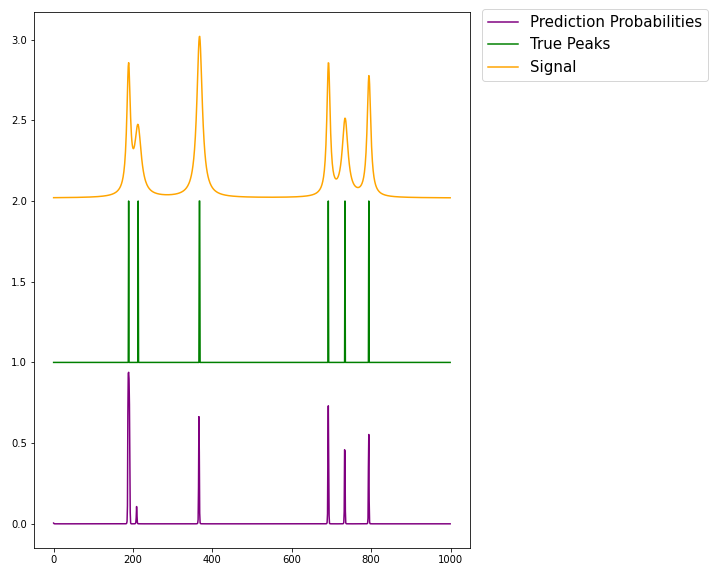
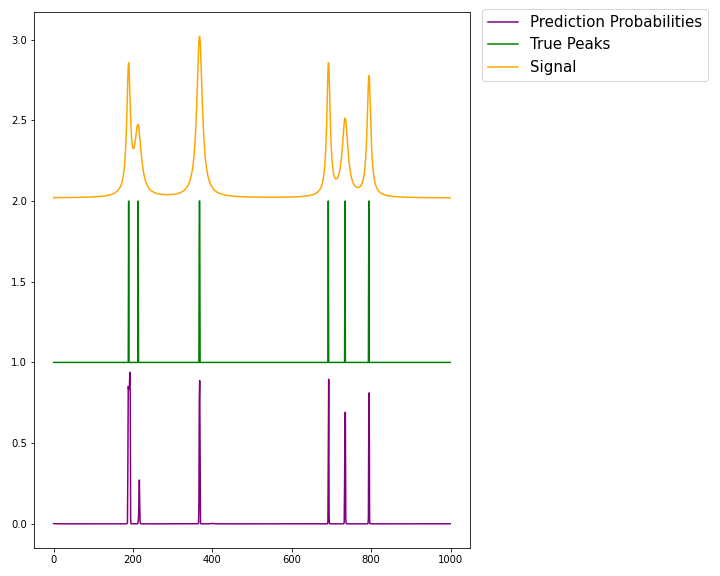
New figures.

diff --git a/RNN_files/testing_diffraction.py b/RNN_files/testing_diffraction.py
@@ -1,32 +1,27 @@
-import sys
-import os
-
 # Add the parent directory to sys.path
 sys.path.append(os.path.abspath(".."))
 
-# Importing needed libraries
+# Importing necessary libraries
+import sys
+import os
 from matplotlib import pyplot as plt
 from RNN_files import Laitala_data_original_file
 import wfdb
 from wfdb.io import get_record_list
 from wfdb import rdsamp
+import numpy as np
 import tensorflow as tf
 from tensorflow.keras import layers
 from scipy.signal import resample_poly
+import xarray as xr
+import matplotlib.pyplot as plt
 from RNN_files import Laitala_data_original_file
 import tensorflow
 from tensorflow.keras import layers, models, Input
 import numpy as np
-import xarray as xr
-import matplotlib.pyplot as plt
 import sklearn
 from sklearn.model_selection import train_test_split
-from wfdb.processing import (
-    resample_singlechan,
-    find_local_peaks,
-    correct_peaks,
-    normalize_bound
-)
+from sklearn.metrics import f1_score
 
 diffraction_sim = False
 gauss_sim = True
@@ -35,13 +30,14 @@ visualize_example = False
 if diffraction_sim:
     path = '/nsls2/users/shasko/Repos/internship_2025/datasets/ds_combined_500_patterns_NaCl.nc'
     ds = xr.open_dataset(path, engine="netcdf4")
-    gaussians = ds["Intensities"]
-    binary = ds["binary_arr"]
+    gaussians = ds["Intensities"].values
+    binary = ds["binary_arr"].values
     x = ds["tth"].values
-    window_size = 11753
+
+    window_size = 11763
 
 if gauss_sim:
-    path = '/nsls2/users/shasko/Repos/internship_2025/datasets/math_functions_smalldataset.nc' 
+    path = '/nsls2/users/shasko/Repos/internship_2025/saved_data/gaussian_functions_smalldataset_varying_amps.nc' 
     ds = xr.open_dataset(path, engine="netcdf4")
 
     gaussians = ds["Gaussians"].values
@@ -49,7 +45,16 @@ if gauss_sim:
     print(type(binary))
 
     x = ds["x"].values
-    window_size = 990
+    window_size = 1000
+
+
+# Pad peaks with two 1s on either side
+for j in range(binary.shape[0]):
+    idx = np.where(binary[j] == 1)[0][0] # because there's only 1 "1" we can use [0][0]
+    binary[j][idx - 2] = 1
+    binary[j][idx - 1] = 1
+    binary[j][idx + 1] = 1
+    binary[j][idx + 2] = 1
 
 # Train-val, test split
 tv_gaussians, test_gaussians, tv_binary, test_binary = train_test_split(gaussians, binary, test_size=0.2, shuffle=False)
@@ -57,91 +62,25 @@ tv_gaussians, test_gaussians, tv_binary, test_binary = train_test_split(gaussian
 # Train, val split
 train_gaussians, val_gaussians, train_binary, val_binary = train_test_split(tv_gaussians, tv_binary, test_size=0.25, shuffle=False)
 
-# Make lists from train, val, test data
-gauss_signals_train = [signal for signal in train_gaussians]
-gauss_signals_val = [signal for signal in val_gaussians]
-gauss_signals_test = [signal for signal in test_gaussians]
+# Scale the data
+train_gaussians_sc = np.zeros_like(train_gaussians)
+val_gaussians_sc = np.zeros_like(val_gaussians)
+test_gaussians_sc = np.zeros_like(test_gaussians)
 
-binary_labels_train = [label for label in train_binary]
-binary_labels_val = [label for label in val_binary]
-binary_labels_test = [label for label in test_binary]
+for j in range(train_gaussians.shape[0]):
+    max_inten = np.max(train_gaussians[j])
+    min_inten = np.min(train_gaussians[j])
+    train_gaussians_sc[j] = (train_gaussians[j] - min_inten) / (max_inten - min_inten)
 
-# Data generator adapted from Laitala et al.
-def data_generator(signals, labels, win_size, batch_size):
-   
-    while True:
-        X, y = [], []
+for j in range(val_gaussians.shape[0]):
+    max_inten = np.max(val_gaussians[j])
+    min_inten = np.min(val_gaussians[j])
+    val_gaussians_sc[j] = (val_gaussians[j] - min_inten) / (max_inten - min_inten)
 
-        while len(X) < batch_size:
-            i = np.random.randint(0, len(signals))
-            sig = signals[i]
-            lbl = labels[i]
-
-            if len(sig) <= win_size + 4:
-                continue  # skip short signals
-
-            start = np.random.randint(2, len(sig) - win_size - 2)
-            end = start + win_size
-
-            data_win = sig[start:end]
-            label_win = lbl[start:end]
-
-            # Pad 1s ±2 samples around every 1 in label_win
-            padded_label = label_win.copy()
-            ones = np.where(label_win == 1)[0]
-            for p in ones:
-                for offset in [-2, -1, 1, 2]:
-                    if 0 <= p + offset < win_size:
-                        padded_label[p + offset] = 1
-
-            # Normalize signal window to (0, 1)
-            # data_win = normalize_bound(data_win, lb=0, ub=1)
-
-            # Normalized locally
-            data_win = (data_win - np.min(data_win))/(np.max(data_win) - np.min(data_win))
-
-            # Normalized globally
-            # low = np.min(signals)
-            # high = np.max(signals)
-            # data_win = (data_win - low)/(high - low)
-
-            X.append(data_win)
-            y.append(padded_label)
-
-        X = np.array(X).reshape(batch_size, win_size, 1)
-        y = np.array(y).reshape(batch_size, win_size, 1).astype(int)
-
-        yield X, y
-
-if visualize_example:
-    gen = data_generator(gauss_signals_train, binary_labels_train, win_size=window_size, batch_size=64)
-    X_batch, y_batch = next(gen)
-    n = next(gen)
-
-    # Plot 4 training examples with labels
-    fig, axs = plt.subplots(2, 2)
-    fig.set_figheight(10), fig.set_figwidth(18)
-    fig.suptitle('Some examples of training data with labels', size=20)
-
-    # first index refers to whether it's an input or label, so noisy signal is input and peaks are labels
-    axs[0, 0].plot(n[0][0], color='orange')
-    axs[0, 0].plot(n[1][0]+1, color='green')
-
-    axs[0, 1].plot(n[0][1], color='purple')
-    axs[0, 1].plot(n[1][1]+1, color='blue')
-
-    axs[1, 0].plot(n[0][2], color='yellow')
-    axs[1, 0].plot(n[1][2]+1, color='red')
-
-    axs[1, 1].plot(n[0][3], color='black')
-    axs[1, 1].plot(n[1][3]+1, color='grey')
-
-    # Hide x labels and tick labels for top plots and y ticks for right plots.
-    for ax in axs.flat:
-        ax.label_outer()
-
-    plt.show()
-
+for j in range(test_gaussians.shape[0]):
+    max_inten = np.max(test_gaussians[j])
+    min_inten = np.min(test_gaussians[j])
+    test_gaussians_sc[j] = (test_gaussians[j] - min_inten) / (max_inten - min_inten)
 
 n_batch, n_timesteps, n_input_dim = 64, window_size, 1
 
@@ -151,6 +90,7 @@ model.add(layers.Bidirectional(layers.LSTM(32, return_sequences=True)))
 model.add(layers.Bidirectional(layers.LSTM(32, return_sequences=True)))
 model.add(layers.Dense(1, activation='sigmoid'))
 
+# Compile model
 model.compile(loss='binary_crossentropy',
               optimizer='adam',
               metrics=['acc'])
@@ -167,32 +107,101 @@ es_callback = tf.keras.callbacks.EarlyStopping(monitor='loss',
                                               patience=3,
                                               verbose=2)
 
-# Generate training, validation, and testing data
-training_gen = data_generator(gauss_signals_train, binary_labels_train, win_size=n_timesteps, batch_size=n_batch)
-validation_gen = data_generator(gauss_signals_val, binary_labels_val, win_size=window_size, batch_size=n_batch)
-testing_gen = data_generator(gauss_signals_test, binary_labels_test, win_size=n_timesteps, batch_size=n_batch)
+# Reshape intensity data
+train_gaussians_reshaped = train_gaussians_sc.reshape(train_gaussians_sc.shape[0], train_gaussians_sc.shape[1], 1)
+val_gaussians_reshaped = val_gaussians_sc.reshape(val_gaussians_sc.shape[0], val_gaussians_sc.shape[1], 1)
+test_gaussians_reshaped = test_gaussians_sc.reshape(test_gaussians_sc.shape[0], test_gaussians_sc.shape[1], 1)
+
+# Reshape labels
+train_binary_reshaped = train_binary.reshape(train_binary.shape[0], train_binary.shape[1], 1)
+val_binary_reshaped = val_binary.reshape(val_binary.shape[0], val_binary.shape[1], 1)
+test_binary_reshaped = test_binary.reshape(test_binary.shape[0], test_binary.shape[1], 1)
 
 # Train model
-model.fit(training_gen,
-          steps_per_epoch=40,
-          epochs=20, 
-          validation_data=validation_gen,
-          validation_steps=10,
+model.fit(x=train_gaussians_reshaped,
+          y=train_binary_reshaped,
+          batch_size=64,
+          epochs=40, 
+          validation_data=(val_gaussians_reshaped, val_binary_reshaped),
           callbacks=[cp_callback, es_callback])
 
-gauss_test, label_test = next(testing_gen)
 
-binary_pred = model.predict(gauss_test) # Make predictions
+# Make predictions on held-out test set
+binary_pred = model.predict(test_gaussians_reshaped,
+                            verbose=2)
 
-plt.figure()
+def f1_w_threshold(threshold, test, pred):
+    pred_adjusted = (pred >= threshold).astype(int)
+    test = test.astype(int)
+    f1 = f1_score(test.squeeze(), pred_adjusted.squeeze(), average='micro')
+    return f1
 
-for j in range(1):
-    plt.plot(gauss_test[j], color='green', label='Signal')
-    plt.plot(binary_pred[j] + 1, color='orange', label='Prediction Probabilities')
-    plt.plot(label_test[j] + 2, color='purple', label='True Labels')
+f1_gauss = f1_w_threshold(threshold=0.3, test=test_binary_reshaped, pred=binary_pred)
+print(f'f1 for gaussian test set is {f1_gauss}')
 
-plt.tick_params(top=True, bottom=True, left=True, right=True, direction='in')
-plt.legend(loc='upper left', bbox_to_anchor=(1.05, 1))
-plt.tight_layout()
-# plt.savefig('test_results_multigauss1.png')
-plt.show()
+# Evaulate on non-Gauss data. In this case, Lorentzian signals.
+path = '/nsls2/users/shasko/Repos/internship_2025/saved_data/lorentzian_functions_smalldataset.nc' 
+ds = xr.open_dataset(path, engine="netcdf4")
+
+intensities_lor = ds["Intensities"].values
+binary = ds["BinaryArr"].values
+x = ds["x"].values
+window_size = 1000
+
+# Scale signals
+intensities_lor_sc = np.zeros_like(intensities_lor)
+
+for j in range(intensities_lor.shape[0]):
+    max_inten = np.max(intensities_lor[j])
+    min_inten = np.min(intensities_lor[j])
+    intensities_lor_sc[j] = (intensities_lor[j] - min_inten) / (max_inten - min_inten)
+
+# Reshape intensities
+intensities_lor_sc_reshaped = intensities_lor_sc.reshape(intensities_lor_sc.shape[0],
+                                                         intensities_lor_sc.shape[1],
+                                                         1)
+
+# Reshape labels
+binary_lor_reshaped = binary.reshape(binary.shape[0],
+                                 binary.shape[1],
+                                 1)
+
+# Make prediction
+pred_lor = model.predict(intensities_lor_sc_reshaped,
+                         verbose=2)
+
+f1_lor = f1_w_threshold(threshold=0.3, test=binary_lor_reshaped, pred=pred_lor)
+print(f'f1 for lorentzian test set is {f1_lor}')
+
+
+# Evaulate on non-Gauss data. In this case, cubic NaCl diffraction signals.
+path = '/nsls2/users/shasko/Repos/internship_2025/datasets/ds_combined_500_patterns_NaCl.nc'
+ds = xr.open_dataset(path, engine="netcdf4")
+intensities_diff = ds["Intensities"].values
+binary_diff = ds["binary_arr"].values
+x = ds["tth"].values
+
+window_size = 11763
+
+# Scale signals
+intensities_diff_sc = np.zeros_like(intensities_diff)
+
+for j in range(intensities_diff.shape[0]):
+    max_inten = np.max(intensities_diff[j])
+    min_inten = np.min(intensities_diff[j])
+    intensities_diff_sc[j] = (intensities_diff[j] - min_inten) / (max_inten - min_inten)
+
+# Reshape signals and labels
+intensities_diff_sc_reshaped = intensities_diff_sc.reshape(intensities_diff_sc.shape[0],
+                                                           intensities_diff_sc.shape[1],
+                                                           1)
+binary_diff_reshaped = binary_diff.reshape(binary_diff.shape[0],
+                                           binary_diff.shape[1],
+                                           1)
+
+# Make predictions
+pred_diff = model.predict(intensities_diff_sc_reshaped,
+                         verbose=2)
+
+f1_diff = f1_w_threshold(threshold=0.3, test=binary_diff_reshaped, pred=pred_diff)
+print(f'f1 for lorentzian test set is {f1_diff}')
